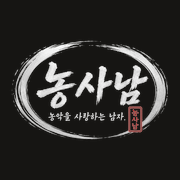
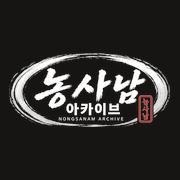
농사남 아카이브 로고

Changed region(s): [[0.0278, 0.2222, 0.9444, 0.7778]]

diff --git a/assets/css/style.css b/assets/css/style.css
@@ -193,8 +193,8 @@ figcaption .mono { color: var(--ink); font-size: 11px; }
 .brand { display: flex; align-items: center; gap: 12px; }
 .brand-mark-wrap {
   position: relative;
-  width: 58px;
-  height: 38px;
+  width: 76px;
+  height: 36px;
   display: flex;
   align-items: center;
   justify-content: center;
@@ -786,7 +786,7 @@ figcaption .mono { color: var(--ink); font-size: 11px; }
 }
 .footer-brand { display: flex; flex-direction: column; gap: 6px; }
 .footer-logo {
-  width: 124px;
+  width: 140px;
   height: auto;
   margin-bottom: 12px;
   display: block;
@@ -874,7 +874,7 @@ figcaption .mono { color: var(--ink); font-size: 11px; }
 }
 
 @media (max-width: 560px) {
-  .brand-mark-wrap { width: 48px; height: 32px; }
+  .brand-mark-wrap { width: 62px; height: 29px; }
   .brand-ko { font-size: 15.5px; }
   .brand-en { font-size: 8.5px; }
   .hero-title { letter-spacing: -0.04em; }

diff --git a/index.html b/index.html
@@ -489,7 +489,7 @@
       <p class="footer-word" aria-hidden="true">Nongsanam Archive</p>
       <div class="footer-grid">
         <div class="footer-brand">
-          <img src="assets/img/logo-white.png" alt="농사남 로고" class="footer-logo" width="130" height="84" />
+          <img src="assets/img/logo-white.png" alt="농사남 아카이브 전용 로고" class="footer-logo" width="140" height="65" />
           <strong>농사남 아카이브</strong>
           <span>전통연희 영상 기록 · 디지털 아카이빙</span>
         </div>
